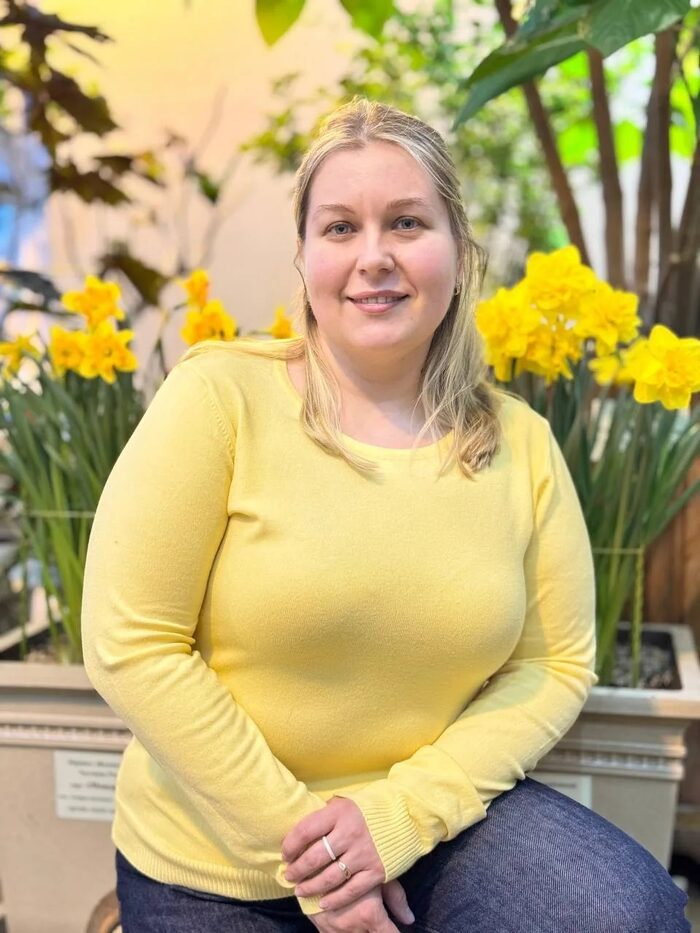
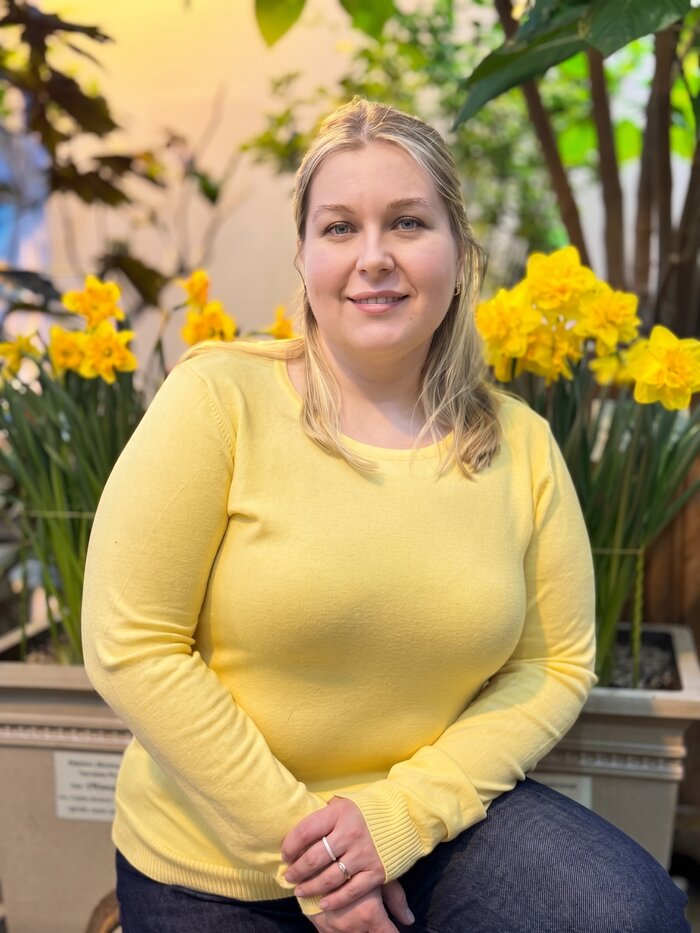
Use AI-generated brand photography instead of real photos
Заказчица подтвердила, что ИИ-сгенерированные снимки в архиве были
намеренно — это вариант фирменной фотографии, а не случайный мусор
в архиве. Заменила hero и «Обо мне» на них вместо настоящих кадров
с телефона.

Claude-Session: https://claude.ai/code/session_019uEWAUM676rrbRYPcZxRNm

diff --git a/BACKLOG.md b/BACKLOG.md
@@ -54,16 +54,15 @@
 - [x] **Книга** — ссылка на покупку добавлена в блок про книгу на главной:
       книга продаётся на ЛитРес (https://litres.ru/74258252), а не на b17
 - [x] **Реальные фото** — заказчица прислала архив с личными фото. Заменила
-      плейсхолдеры на главной: в hero — фото в жёлтом свитере с нарциссами
-      (тёплое, смотрит в камеру), в «Обо мне» — портрет с мероприятия
-      (кадр из общения). Отобрала только настоящие фотографии — в архиве
-      было два файла с явными признаками ИИ-генерации (ChatGPT/Gemini,
-      постановочный интерьер психолога), их не использовала: сайт должен
-      показывать реального человека, а не сгенерированный образ. Осталось
-      определиться с фото для страниц-проектов (`/brunch/`, `/unpack/`,
-      `/money/`) — там пока нет фото-блоков вообще, можно добавить отдельной
-      задачей. Плейсхолдер сканов сертификатов (`#about` → «Образование
-      и сертификация») не трогала — сканов не присылали.
+      плейсхолдеры на главной: в hero и «Обо мне» — фото. Заказчица
+      подтвердила, что ИИ-сгенерированные снимки (ChatGPT/Gemini,
+      постановочный интерьер психолога) в архиве были намеренно, как
+      вариант фирменной фотографии — используются они, а не настоящие
+      кадры с телефона. Осталось определиться с фото для страниц-проектов
+      (`/brunch/`, `/unpack/`, `/money/`) — там пока нет фото-блоков вообще,
+      можно добавить отдельной задачей. Плейсхолдер сканов сертификатов
+      (`#about` → «Образование и сертификация») не трогала — сканов
+      не присылали.
 - [x] **Разные цветовые гаммы для проектов** — у каждой страницы-проекта
       теперь свой акцентный цвет (переопределяет `--sage`/`--sage-deep`
       из общей палитры), подсмотрено с оригинальных Tilda-страниц:
